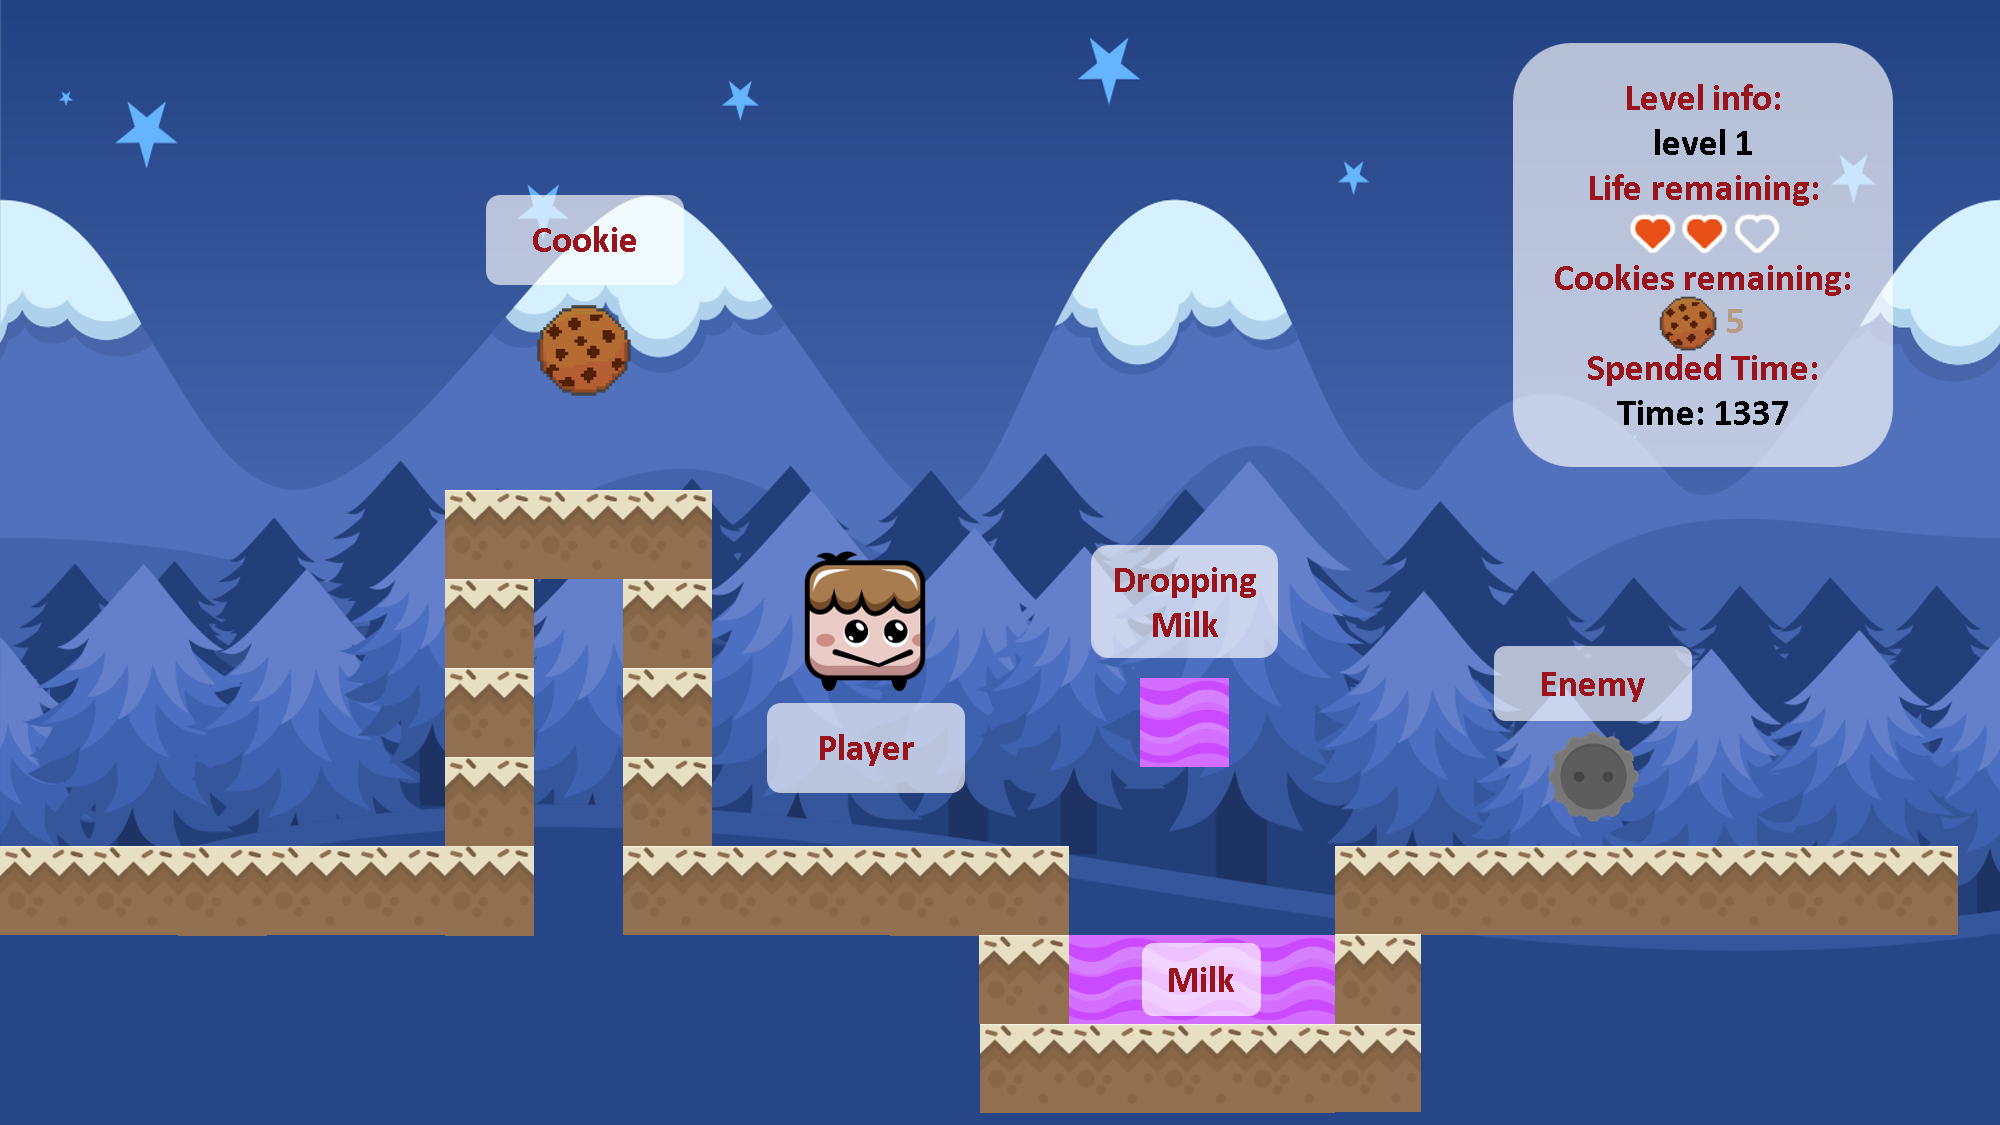
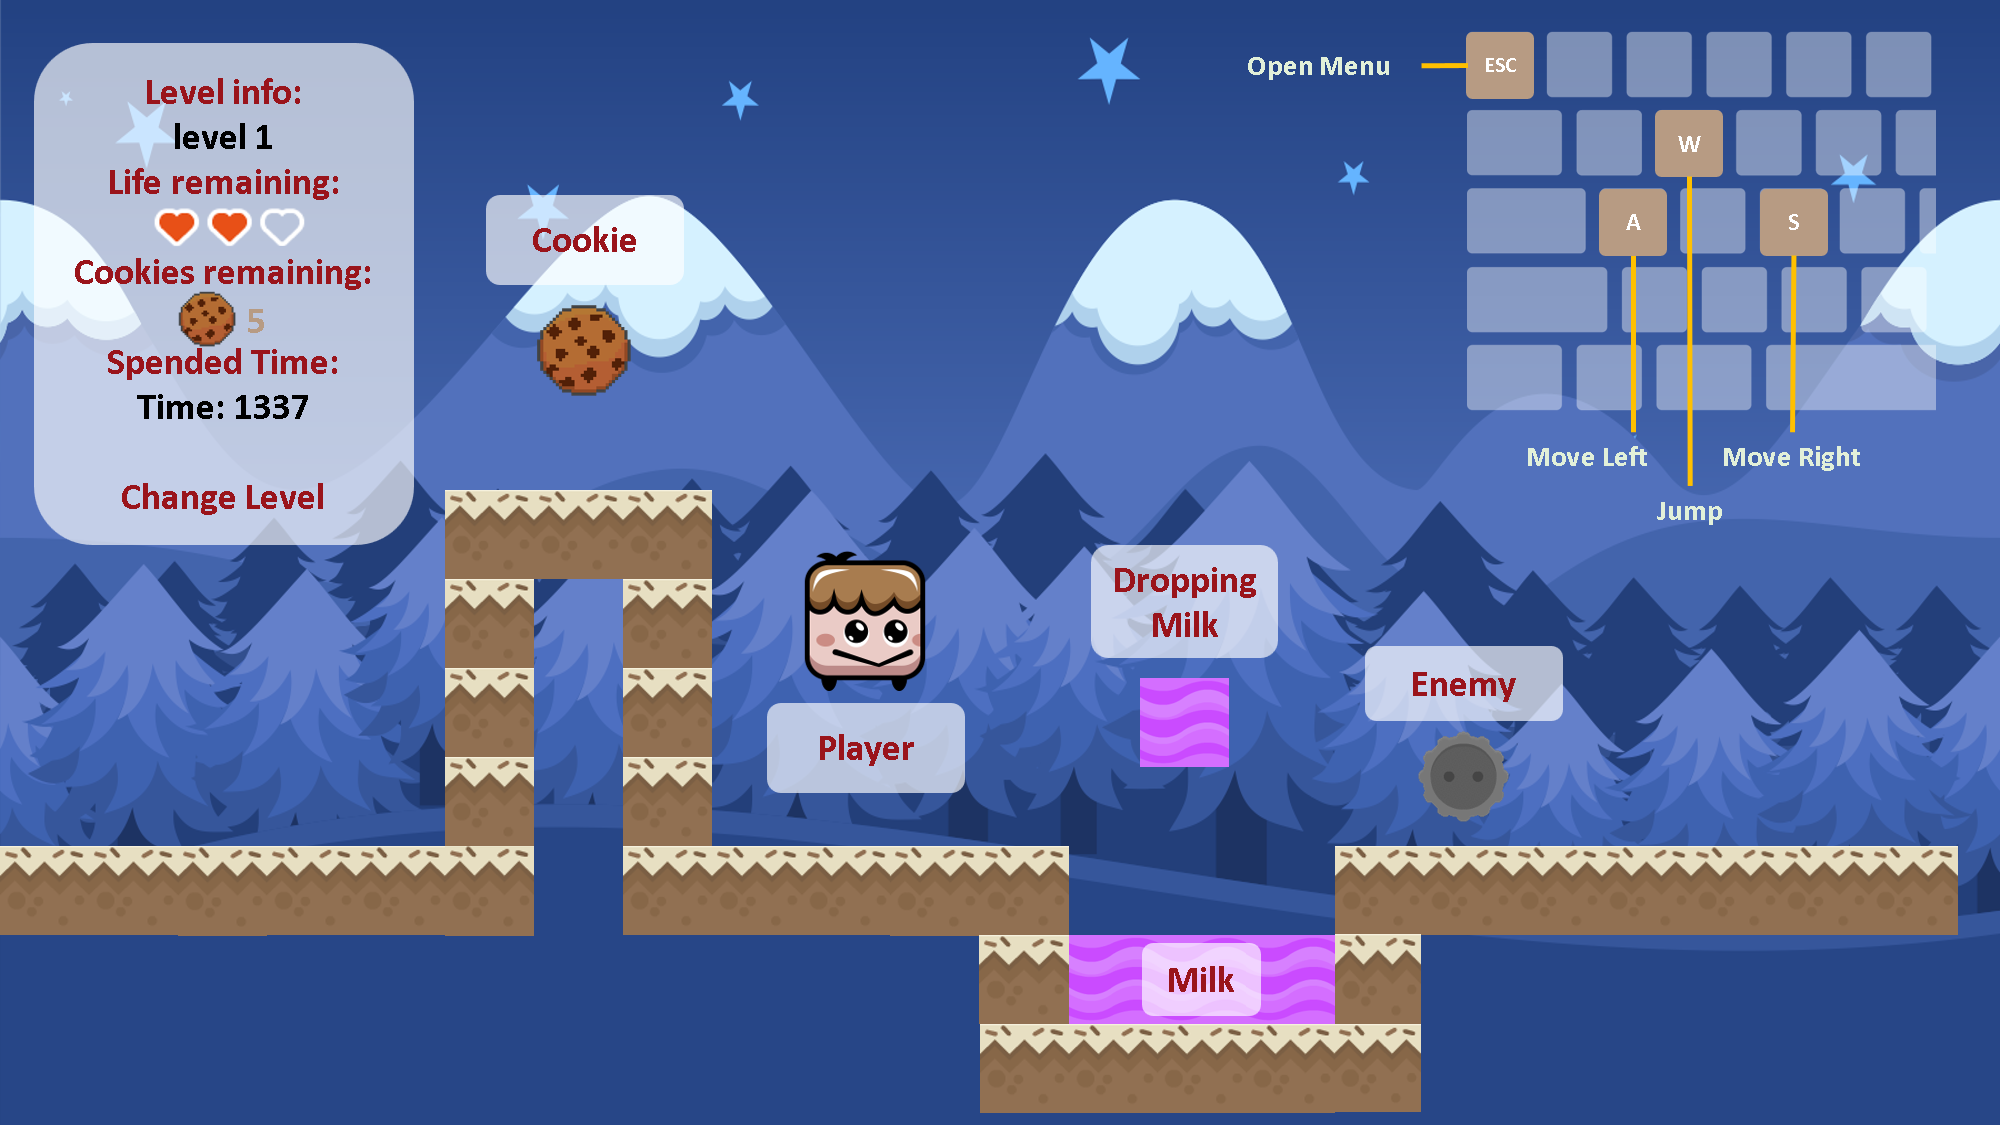
Spielebeschreibung update

diff --git a/index.html b/index.html
@@ -32,7 +32,6 @@
                 <div class="imgcenter">
                     <img src="assets/help/Spielbeschreibung.png" height=500" />
                     <a class="button" href="content/game.html">Play</a>
-                    <img src="assets/help/controls.png" height=500" />
                 </div>
             </div>
         </div>
